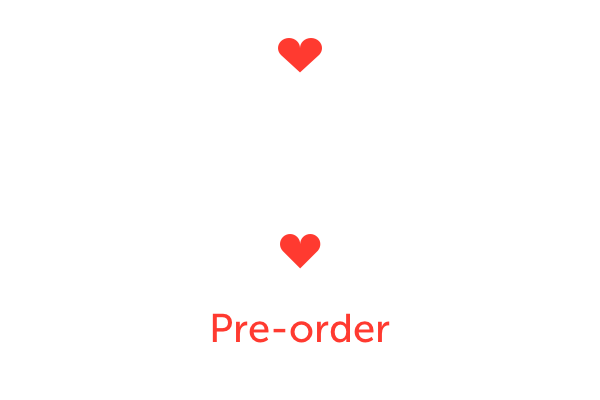
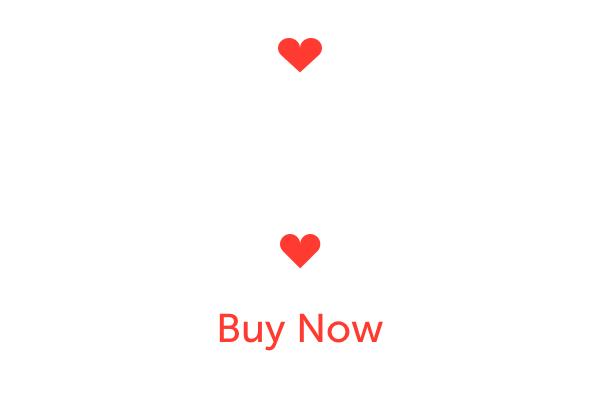
adding press links and changing wording from pre-order to buy now

Changed region(s): [[0.33, 0.78, 0.66, 0.87]]

diff --git a/static/scss/style_v5.css b/static/scss/style_v5.css
@@ -2476,6 +2476,10 @@ body {}
 	filter: gray; /* IE6-9 */
 	-webkit-filter: grayscale(100%); /* Chrome 19+, Safari 6+, Safari 6+ iOS */
 }
+#site_container.index .section_press ul.press li a:hover img {
+	opacity: 1.0;
+	-webkit-filter: grayscale(0%); /* Chrome 19+, Safari 6+, Safari 6+ iOS */
+}
 #site_container.index .section_press ul.press li.quarter {
 	width: 22%;
 	margin: 0 1.5% 0 1.5%;
